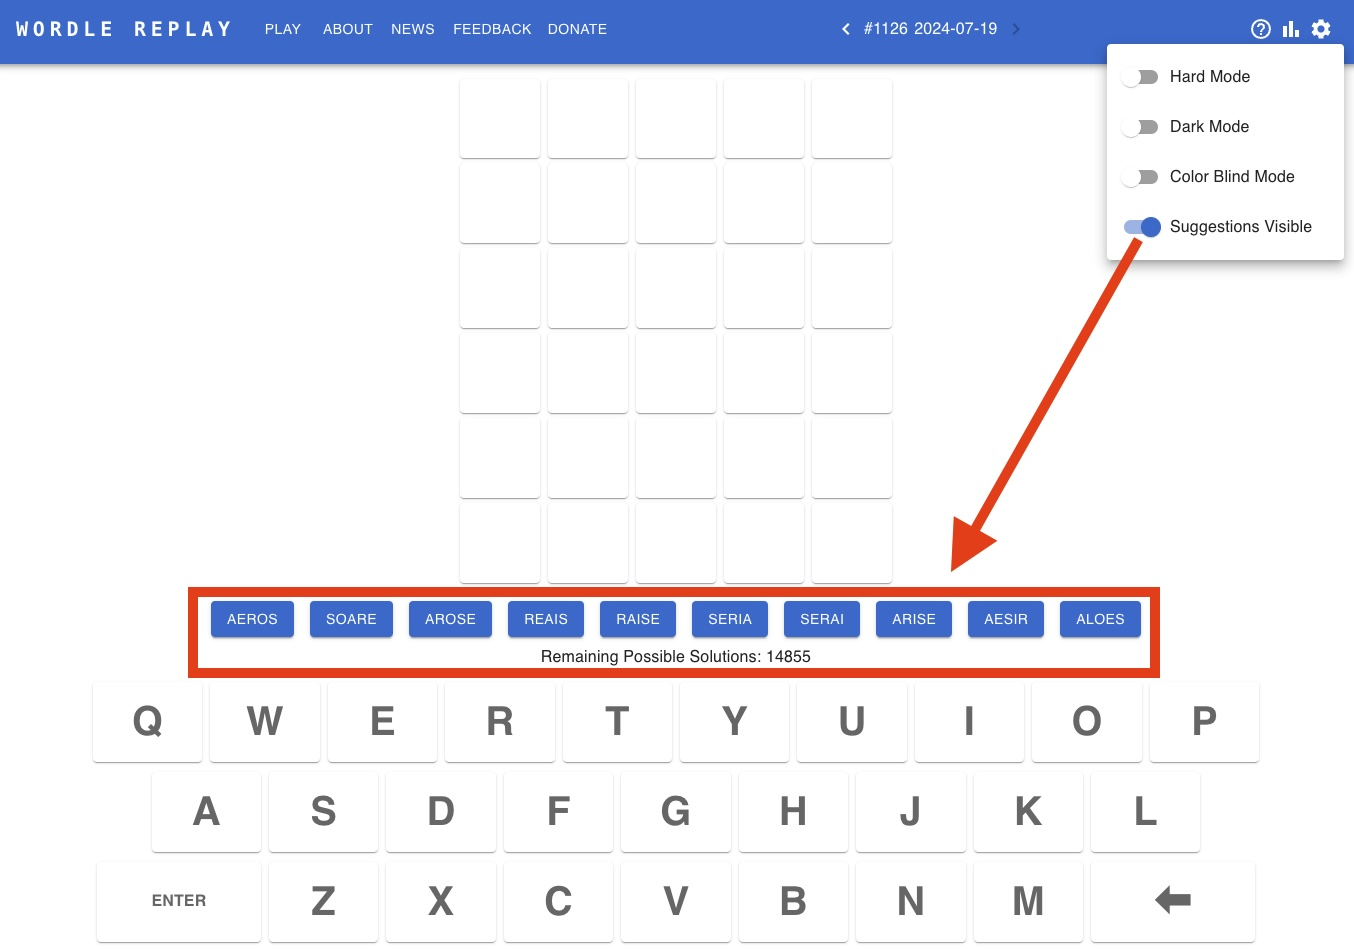
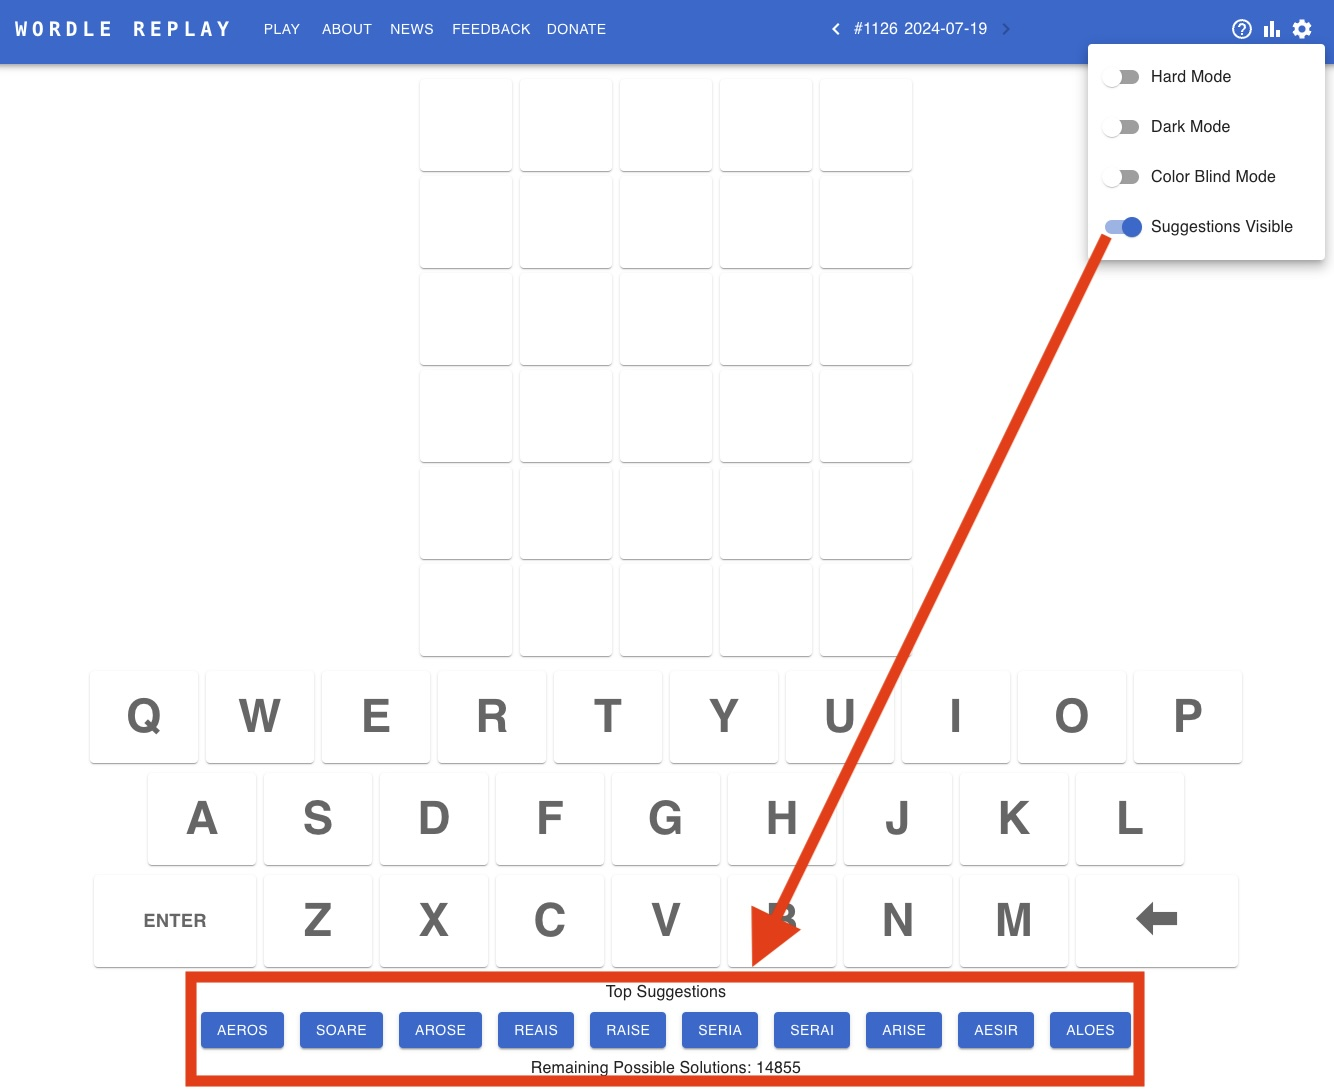
add button to show WonDialog (and Suggestions) beneath keyboard

diff --git a/src/components/Game.js b/src/components/Game.js
@@ -6,7 +6,7 @@ import GuessesBoard from './GuessesBoard';
 import Keyboard from './Keyboard';
 import InvalidGuessDialog from "./Dialogs/InvalidGuessDialog";
 import WonDialog from "./Dialogs/WonDialog";
-import { Stack, Typography } from "@mui/material";
+import { Button, Stack, Typography } from "@mui/material";
 
 import { getInsightsFromGuessRanks, getInsightCallback, satisfiesAllInsightCallbacks } from '../hardModeWordsFiltering';
 
@@ -33,7 +33,6 @@ const Game = forwardRef(({
   hardModeWords,
   setHardModeWords,
   focusGuessesBoard,
-  resetGame,
   enterGuess,
   invalidGuess,
   invalidGuessDialogOpen,
@@ -42,6 +41,8 @@ const Game = forwardRef(({
   setWonDialogOpen,
   deleteDBDates,
   numGuesses,
+  solved,
+  setSolved,
   SuggestedGuessButtons,
   green,
   gray,
@@ -89,6 +90,7 @@ const Game = forwardRef(({
         // track if solved
         if (guessRanks === '22222') {
           isSolved = true;
+          setSolved(true);
         }
       });
 
@@ -120,7 +122,7 @@ const Game = forwardRef(({
     }
     setLastLoadAttemptDate(puzzleDate);
     focusGuessesBoard();
-  }, [puzzleDate, lastLoadAttemptDate, lastLoadedDate, guessesDB, answer, hardModeWords, setHardModeWords, letterMaxRanks, focusGuessesBoard, setGuessesColors, setGuessesData, setLetterMaxRanks, setNextLetterIndex, setSeenInsights]);
+  }, [puzzleDate, lastLoadAttemptDate, lastLoadedDate, guessesDB, answer, hardModeWords, setHardModeWords, letterMaxRanks, focusGuessesBoard, setGuessesColors, setGuessesData, setLetterMaxRanks, setNextLetterIndex, setSeenInsights, setSolved]);
 
   const handleInputText = (text) => {
     // console.log(`entered ${text}`);
@@ -165,13 +167,6 @@ const Game = forwardRef(({
         colorBlindMode={colorBlindMode}
       />
 
-      {suggestionsVisible && (
-        <Stack spacing={1} sx={{ p: 1 }} >
-          <SuggestedGuessButtons />
-          <Typography>{remainingSolutionsText(hardModeWords)}</Typography>
-        </Stack>
-      )}
-
       <Keyboard
         screenSize={screenSize}
         letterMaxRanks={letterMaxRanks}
@@ -179,6 +174,16 @@ const Game = forwardRef(({
         darkMode={darkMode}
         colorBlindMode={colorBlindMode}
       />
+
+      {solved && <Button onClick={() => setWonDialogOpen(true)}>Show Win Screen</Button>}
+
+      {suggestionsVisible && !solved && (
+        <Stack spacing={1} sx={{ p: 1 }} >
+          <Typography>Top Suggestions</Typography>
+          <SuggestedGuessButtons />
+          <Typography>{remainingSolutionsText(hardModeWords)}</Typography>
+        </Stack>
+      )}
 
       {/* Dialogs, initially hidden */}
       <InvalidGuessDialog

diff --git a/src/App.js b/src/App.js
@@ -66,6 +66,7 @@ function App() {
   const [previousUnsolvedDate, setPreviousUnsolvedDate] = useState(null);
   const [earliestUnsolvedDate, setEarliestUnsolvedDate] = useState(null);
   const [latestUnsolvedDate, setLatestUnsolvedDate] = useState(null);
+  const [solved, setSolved] = useState(false);
   
   const toggleColorMode = () => {
     const newColorMode = colorMode === 'light' ? 'dark' : 'light';
@@ -166,6 +167,7 @@ function App() {
     setHardModeWords(new Set([...wordleAcceptableWords]));
     setPossibleWords(new Set([...wordleAcceptableWords]));
     setSeenInsights(new Set());
+    setSolved(false);
     focusGuessesBoard();
   };
 
@@ -228,6 +230,7 @@ function App() {
       setLetterMaxRanks(newLetterMaxRanks);
 
       if (guessRanks === '22222') {  // guess is all greens (i.e., the answer)
+        setSolved(true);
         if (!guessesDB.hasOwnProperty(puzzleDate) || !guessesDB[puzzleDate].solvedDate) {  // save if never saved or unsolved
           saveGuess(gData, true);  // including `true` will add solved date
 
@@ -340,7 +343,6 @@ function App() {
           hardModeWords={hardModeWords}
           setHardModeWords={setHardModeWords}
           focusGuessesBoard={focusGuessesBoard}
-          resetGame={resetGame}
           enterGuess={enterGuess}
           invalidGuess={invalidGuess}
           invalidGuessDialogOpen={invalidGuessDialogOpen}
@@ -349,6 +351,8 @@ function App() {
           setWonDialogOpen={setWonDialogOpen}
           deleteDBDates={deleteDBDates}
           numGuesses={numGuesses}
+          solved={solved}
+          setSolved={setSolved}
           SuggestedGuessButtons={SuggestedGuessButtons}
           green={green}
           gray={gray}

diff --git a/src/constants.js b/src/constants.js
@@ -73,6 +73,12 @@ export const lsKeys = {
 // posts will appear on page in the order given in the array
 export const newsPosts = [
     {
+        id: 5,
+        date: "2024-07-19",
+        title: "Button to Return to Win Screen",
+        fileName: "2024-07-19_win_screen_button.md"
+    },
+    {
         id: 4,
         date: "2024-07-19",
         title: "Top Suggested Guesses (Optionally) Always Visible",

diff --git a/public/markdown/about.md b/public/markdown/about.md
@@ -52,6 +52,7 @@ Clicking the Gear Icon in the top right corner will open a Settings menu. Any se
 * Enabling **Hard Mode** will only allow you to enter guesses that satisfy all the the insights you've gained from your previous guesses. For example, if your first guess shows a green "A" at the start of the word, all of the your future guesses must also start with "A". Similarly, if a guess reveals a yellow "T" at the end of the word, all of your future guesses cannot end with "T" but most have a "T" somewhere else in the word.
 * Enabling **Dark Mode** will intelligently transition the site to a predominantly dark theme.
 * Enabling **Color Blind Mode** will make the colors of the letters in the grid and the keyboard more distinguishable. I, Doug, am red-green color deficient, so while I haven't had trouble with the original Wordle colors, I'm thankful to be able to help others who have this challenge.
+* Enabling **Suggestions Visible** will display the top suggested guesses beneath the keyboard _and keep them there_. See the Suggestions section below for another method of revealing the top suggested guesses without them always being visible.
 
 
 ## Suggestions

diff --git a/public/markdown/news/2024-07-19_suggestions_always_visible.md b/public/markdown/news/2024-07-19_suggestions_always_visible.md
@@ -1,6 +1,6 @@
 Many of you have requested a way for the top suggested guesses to always be visible, rather than having to click the Suggestions icon each time in the navigation bar. Now it is possible.
 
-Navigate to the Settings menu and select the "Suggestions Visible" option. After engaging this option, the top suggested guesses will be revealed (as well as the count of the remaining possible solutions) beneath the game board. These buttons will remain visible until you deselect the option in the Settings menu.
+Navigate to the Settings menu and select the "Suggestions Visible" option. After engaging this option, the top suggested guesses will be revealed (as well as the count of the remaining possible solutions) beneath the keyboard. These buttons will remain visible until you deselect the option in the Settings menu.
 
 ![suggestions visible](/images/suggestions_visible.jpg)
 

diff --git a/public/markdown/news/2024-07-19_win_screen_button.md b/public/markdown/news/2024-07-19_win_screen_button.md
@@ -1,0 +1,5 @@
+There have been some questions: "How do I see the Win screen after I've exited it? I can't share my results without being on the Win screen."
+
+Now, after you've solved a puzzle, you can find a "SHOW WIN SCREEN" button beneath the keyboard.
+
+![win screen button](/images/win_screen_button.jpg)
